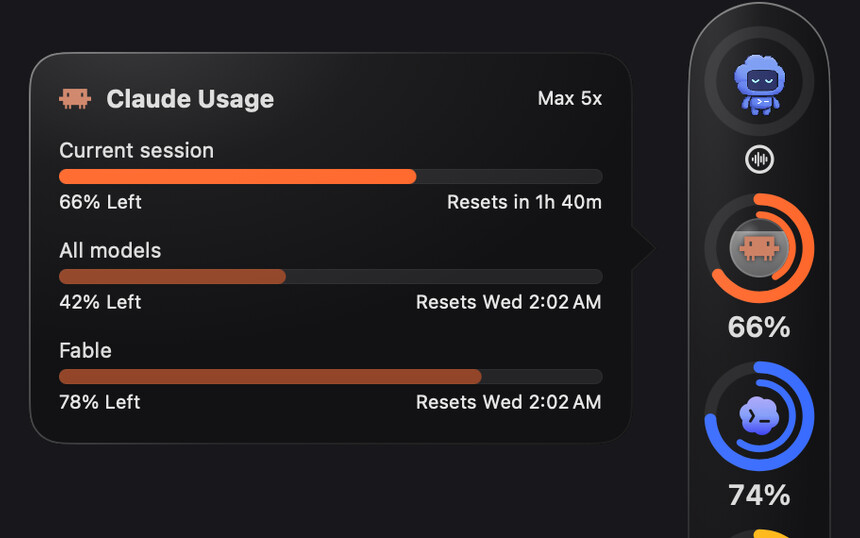
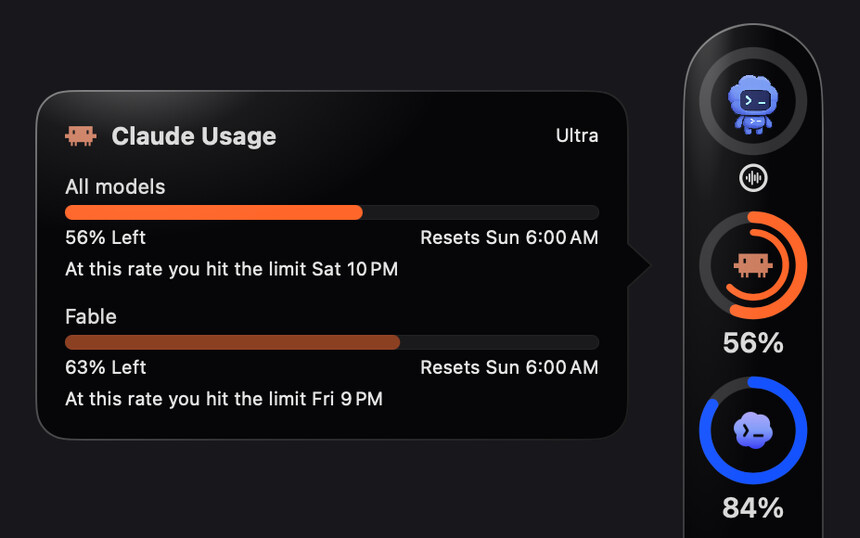
Docs: use owner Pulse screenshots for current UI

diff --git a/docs/features.md b/docs/features.md
@@ -5,13 +5,13 @@
 Usage refreshes every 2 minutes.
 
 <p align="center">
-  <a href="screenshots/usage-card.png"><img src="screenshots/usage-card.png" width="428" alt="Claude usage card beside the rail, showing sample limits and reset times"></a>
+  <a href="screenshots/usage-card.png"><img src="screenshots/usage-card.png" width="600" alt="Claude usage card beside the rail, showing live limits, reset times and two forecast lines"></a>
 </p>
 
 <p align="center">
-  <img src="screenshots/rail-used.png" width="581" alt="Usage rings showing percentages used">
-  <br>
-  <img src="screenshots/rail-left.png" width="581" alt="The same rings showing percentages left">
+  <a href="screenshots/rail-collapsed.png"><img src="screenshots/rail-collapsed.png" width="84" alt="Collapsed vertical rail with the provider and battery rings"></a>
+  &nbsp;
+  <a href="screenshots/rail-expanded.png"><img src="screenshots/rail-expanded.png" width="116" alt="Expanded vertical rail showing percentages left below each ring"></a>
 </p>
 
 Click the menu bar icon for Settings, which has a tab for each part of Pulse: General, Accounts, Rings, Battery, Codex pet and Breaks. **Settings → General → Launch at login** starts Pulse when you log in. Pulse always uses a dark appearance, including its Settings and menu bar popover. **Settings → General → Appearance** chooses **Glass**, untinted dark Liquid Glass, or **Solid**, an opaque dark surface. Both are lit softly from the top left, except on the break screen and in Settings. The chosen look applies to the rail, cards, countdown, alerts, menu and Settings. Click a ring for that account's windows and reset times; the card slides along the rail so its tail points at the ring.
@@ -20,11 +20,13 @@ The rings sit in a rail at a screen edge, small and without numbers until the po
 
 Each ring's outer arc is the account's shortest limit, usually the 5-hour session, and the inner arc the next, usually the weekly limit. A per-model cap, such as Claude's weekly limit for one model or an Antigravity model's own limit, fills the gray disc behind the logo, rising as it's used. With only one general limit, the cap takes the inner arc instead and the disc is left for a second cap. When there are more caps than places, the ring shows the fullest. Models that share limits of their own get a ring of their own: Antigravity's Gemini pool is violet, and its Claude and GPT pool is sky blue, with a switch in **Settings → Accounts** to hide it. Grok has one limit, its credits, so its ring has one arc and the card lists what each product used. When a window reaches 98%, the ring gets a red badge and Pulse shows an alert in the middle of the screen with the account, the window and when it resets. It comes again at 99% and at 100%, each once per reset period, and stays until you click **Dismiss**, so it can't slip by unseen; while it's open, a newer step just updates its numbers. **Show what's left** in Settings turns the rings, bars and percentages around: they show what's left and empty as you use them, and the disc falls instead of rising. Grok's products are shares of its credits rather than limits of their own, so the card always shows what they used.
 
-<p align="center"><a href="screenshots/antigravity-rings.png"><img src="screenshots/antigravity-rings.png" width="160" alt="Sample Antigravity Gemini and Claude/GPT pool rings at 88% and 80% left"></a></p>
+<p align="center"><a href="screenshots/antigravity-rings.png"><img src="screenshots/antigravity-rings.png" width="116" alt="Antigravity's Gemini and Claude/GPT pool rings, each showing 100% left"></a></p>
 
 When the recent pace would use up a limit before it resets, its row on the card and in the menu bar popover adds a line such as "At this rate you hit the limit Sat 3 PM", and VoiceOver reads it. That's what the current rate works out to, not a prediction, so it goes away when use slows, and its time is rounded down. The pace is the rise in the used percent over the last 24 hours, or since Pulse first saw this limit period if that's more recent. The line waits for 10% used and 20 minutes of readings, and shows only from a live reading under 10 minutes old. Pulse starts the pace over when the reset time moves by 15 minutes or more, when the used percent falls by more than 5 points, and after a day without a reading. Rings, badges and alerts don't use it.
 
 When a refresh fails, the ring dims and keeps its last numbers, and its card says when they're from and why. By the next refresh after a window's reset time, its old number is gone: the ring shows a dash and the card says "Reset since the last update", until a refresh succeeds. A window with no reset time keeps its last number. A provider that doesn't answer within 2 minutes counts as a failed refresh, so it can't hold up the others.
+
+<p align="center"><a href="screenshots/all-accounts.png"><img src="screenshots/all-accounts.png" width="300" alt="Menu bar usage panel with Claude, Codex, Grok and Antigravity limits and forecast lines"></a></p>
 
 ## Battery
 
@@ -33,7 +35,7 @@ On a Mac with a battery, the last ring on the rail is the battery: at the bottom
 Click it for its card: the charge and whether it's charging, with the time until full or the time left; what the whole Mac is drawing, how much of it goes into the battery and the adapter's wattage; the battery's Maximum Capacity and condition as System Settings shows them; its cycle count; and whether Low Power Mode is on. It reads the numbers when it opens and the power every few seconds while it stays open.
 
 <p align="center">
-  <img src="screenshots/battery-card.png" width="428" alt="The battery card beside the rail, with sample numbers: 84%, charging, full in about 35 min; the Mac is using 9.6 W; charging at 21.3 W from a 70 W adapter; Maximum Capacity 95%, Normal; 234 cycles">
+  <img src="screenshots/battery-card.png" width="448" alt="Battery card beside the rail showing 70% charge, time left, power draw, maximum capacity and cycles">
 </p>
 
 When the charge reaches either level, Pulse shows its own alert in the middle of the screen with the percentage and, when macOS has an estimate, the time left. It never uses Notification Center. The alert doesn't take the keyboard, ignores clicks for its first second, and stays until you click **Dismiss** or plug in; plugging in also stops its sound. Each level alerts once per discharge.
@@ -74,7 +76,7 @@ The break covers every display: a dark screen with a coloured glow at its edges,
 <p align="center">
   <img src="screenshots/settings-breaks.png" width="400" alt="Settings, Breaks tab: the reminder switch, micro break every 20 min for 20 s, long break every 60 min for 5 min, time away counting when locked, asleep or idle for 5 minutes, Wait during calls, the colour presets with violet chosen, Blow as the sound at start, Glass at the end, and the Show agents switch">
   &nbsp;
-  <img src="screenshots/break-history.png" width="400" alt="Settings, Breaks, History: today 2 taken, 1 ended early, 1 snoozed, 1 skipped, 2 away, and the latest breaks with their times and how each ended">
+  <img src="screenshots/break-history.png" width="460" alt="Settings, Breaks, History with today's and this week's totals and the latest breaks">
 </p>
 
 To try it without waiting, turn breaks on and run `defaults write io.github.tommyent.pulse simulatedBreak micro` (or `long`): each run is one countdown, and a simulated break leaves the schedule alone. `defaults write io.github.tommyent.pulse simulatedAgents "claude-code working, codex blocked"` shows stand-in agents instead of Rex's, and `defaults write io.github.tommyent.pulse simulatedIdea "…"` shows that text as every break's idea; `defaults delete io.github.tommyent.pulse simulatedAgents` (or `simulatedIdea`) undoes either. Pulse logs what breaks do, from each countdown to how it ended and what counted as time away: `log stream --predicate 'subsystem == "io.github.tommyent.pulse" AND category == "breaks"'`.

diff --git a/README.md b/README.md
@@ -14,7 +14,7 @@
   <a href="docs/"><strong>Docs</strong></a>
 </p>
 
-<p align="center"><a href="docs/screenshots/break-screen.png"><img src="docs/screenshots/break-screen.png" width="100%" alt="Pulse's violet break screen with countdown, break idea and agents"></a></p>
+<p align="center"><a href="docs/screenshots/usage-card.png"><img src="docs/screenshots/usage-card.png" width="100%" alt="Claude usage card with live percentages and forecast lines beside the rail"></a></p>
 
 ## Features
 
@@ -22,8 +22,8 @@ Click a picture to see it full size.
 
 <table>
   <tr>
-    <td width="33%" valign="top"><a href="docs/screenshots/usage-card.png"><img src="docs/screenshots/thumbs/usage-card.jpg" width="100%" alt="Claude usage card beside the rail with sample limits"></a><br><b>Usage rings</b> show limits and reset times</td>
-    <td width="33%" valign="top"><a href="docs/screenshots/pet-card.png"><img src="docs/screenshots/thumbs/pet-card.jpg" width="100%" alt="Codex pet card with message field and voice button"></a><br><b>Codex pet</b> for text and live voice</td>
+    <td width="33%" valign="top"><a href="docs/screenshots/usage-card.png"><img src="docs/screenshots/thumbs/usage-card.jpg" width="100%" alt="Claude usage card with forecast lines beside the rail"></a><br><b>Usage rings</b> show limits and reset times</td>
+    <td width="33%" valign="top"><a href="docs/screenshots/pet-card.png"><img src="docs/screenshots/thumbs/pet-card.jpg" width="100%" alt="Codex pet card with a short chat and voice button"></a><br><b>Codex pet</b> for text and live voice</td>
     <td width="33%" valign="top"><a href="docs/screenshots/battery-card.png"><img src="docs/screenshots/thumbs/battery-card.jpg" width="100%" alt="Battery card with charge, power draw and health"></a><br><b>Battery card</b> and low-charge alerts</td>
   </tr>
   <tr>

diff --git a/docs/codex-pet.md b/docs/codex-pet.md
@@ -1,7 +1,7 @@
 # Codex pet
 
 <p align="center">
-  <a href="screenshots/pet-card.png"><img src="screenshots/pet-card.png" width="371" alt="The Codex pet card with work model, message field and voice button"></a>
+  <a href="screenshots/pet-card.png"><img src="screenshots/pet-card.png" width="469" alt="The Codex pet card with a short chat, message field and voice button"></a>
 </p>
 
 
